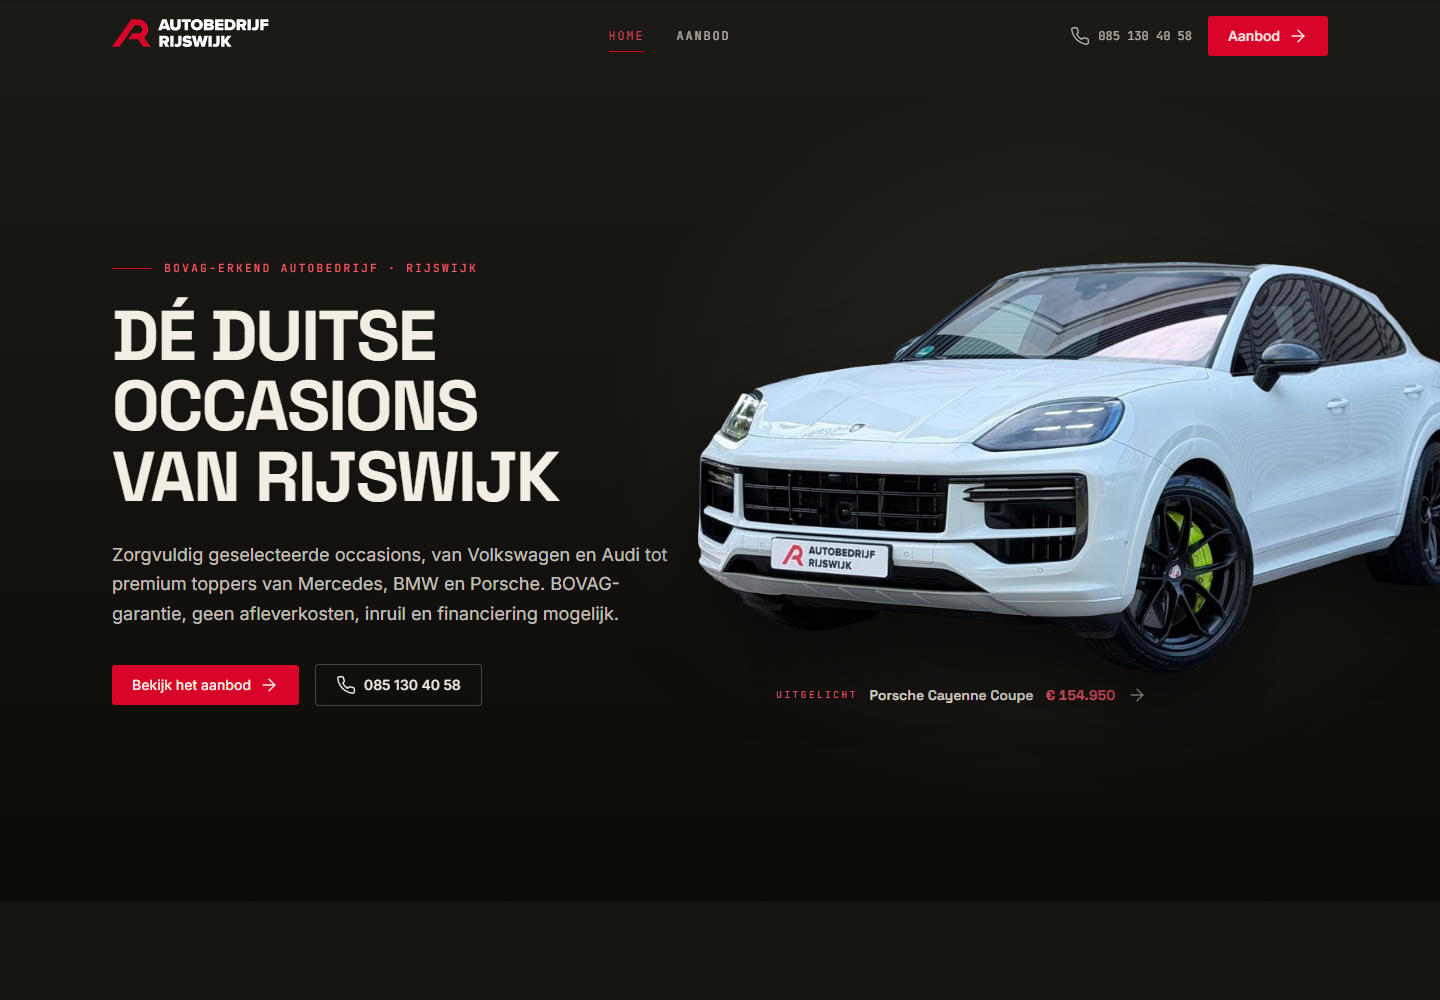
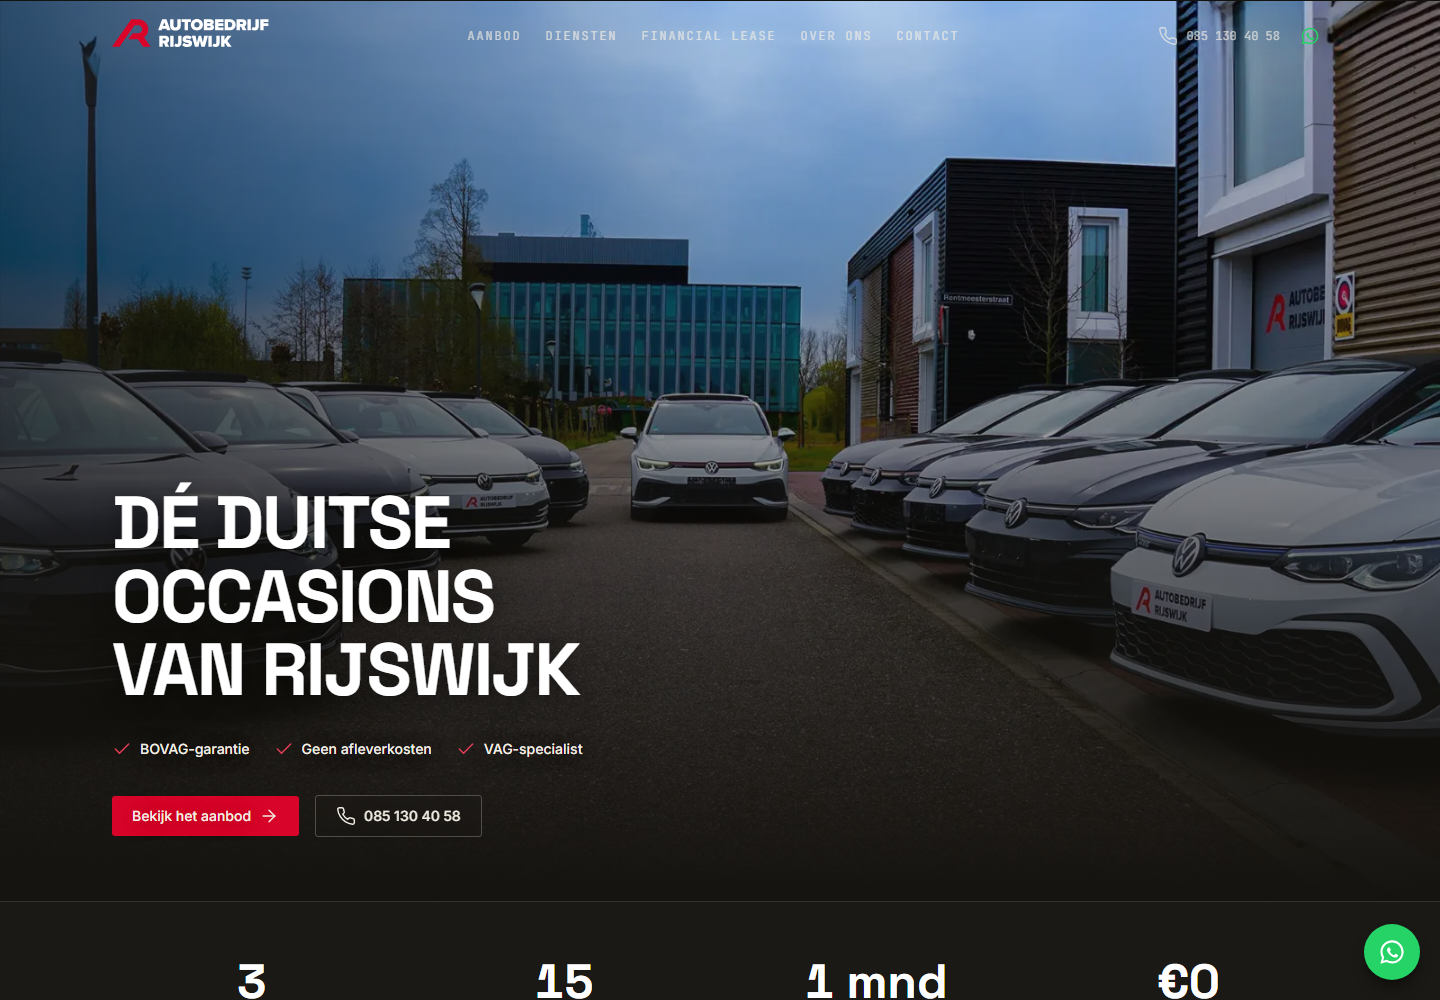
docs: recente homepage-screenshot + Diensten/Financial lease in README

diff --git a/README.md b/README.md
@@ -18,6 +18,8 @@ Een complete autogarage-website gebouwd met **Laravel 13**, **MySQL/MariaDB**, *
 - Homepage met uitgelichte en nieuwste occasions
 - Aanbodpagina met **instant client-side filtering** (Alpine.js): zoeken, merk, brandstof, dual-range prijs- en bouwjaar-slider, sorteren, verwijderbare filter-chips, live resultatenteller en een mobiele filter-drawer
 - Detailpagina met foto-carousel, alle specificaties en vergelijkbare auto's
+- **Diensten**-pagina (inkoop, verkoop, aankoopbemiddeling, zoekopdracht)
+- **Financial lease**-pagina met de externe FinancialLease-rekenwidget (maandbedrag-indicatie)
 - Volledig responsive (mobiel / tablet / desktop) en toegankelijk (focus states, alt-teksten, skip-link)
 
 **Admin** (`/admin`, na inloggen)
